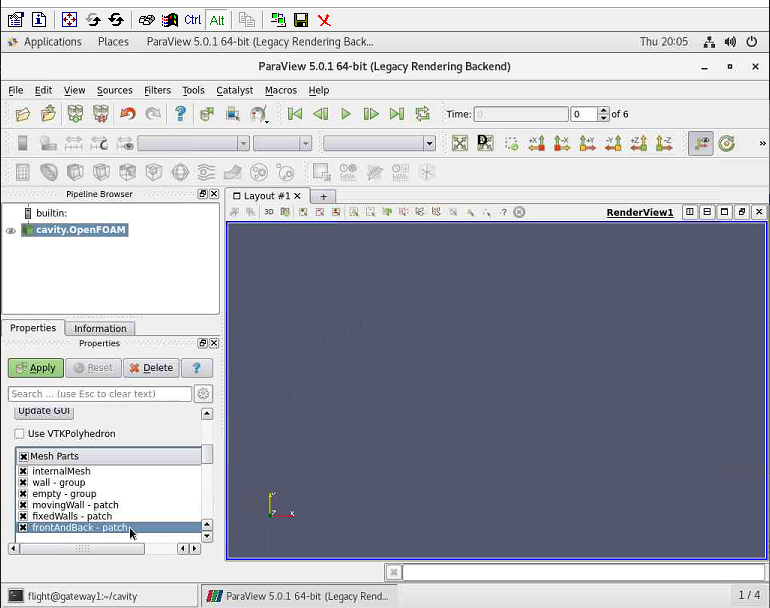
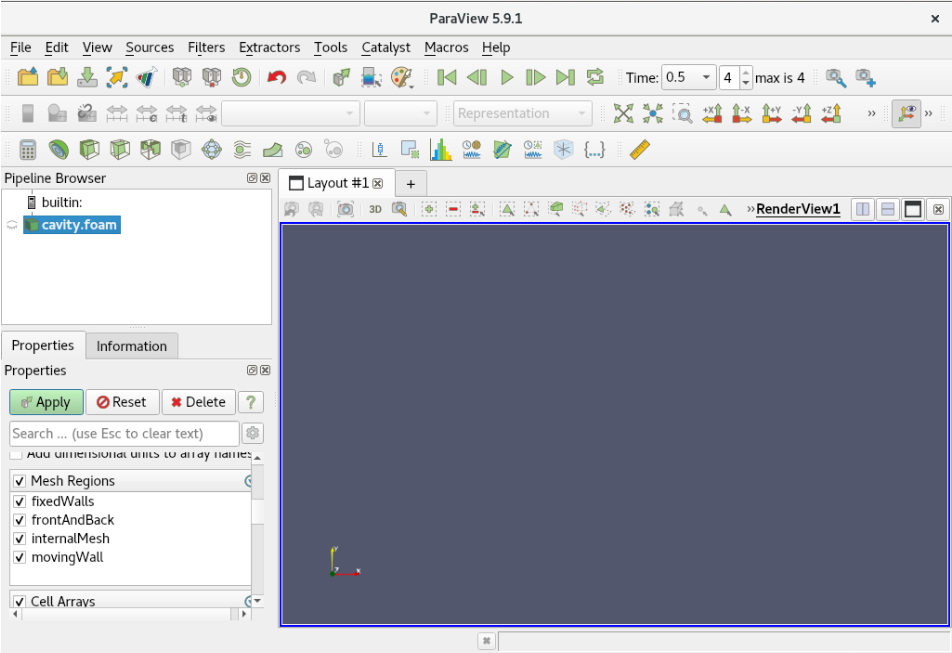
update and fix openfoam workflow

Changed region(s): [[0.0, 0.0, 1.0, 1.0]]

diff --git a/Retype_Documentation/workflow_examples/openfoam.md b/Retype_Documentation/workflow_examples/openfoam.md
@@ -2,7 +2,6 @@
 order: 70
 label: OpenFOAM
 icon: dot-fill
-visibility: hidden
 ---
 
 OpenFOAM is a popular engineering application toolbox. It's open source and is used for simulating fluid flow around objects. 
@@ -11,52 +10,43 @@ OpenFOAM is a popular engineering application toolbox. It's open source and is u
 
 ## Workflow
 
-### Installing OpenFOAM with Gridware
+### Installing OpenFOAM
 
 !!!
-The flight environment will need to be activated before the environments can be created so be sure to run `flight start` or [setup your environment to automatically activate the flight environment](/flight_environment_usage/flight_overview/flight_system/#activating-the-flight-system).
+Your environment will need to have a job scheduler such as [Slurm](/hpc_environment_usage/slurm_environment_usage/slurm_scheduler/), which can be set up by following the instructions for a [standalone cluster](/cluster_build_methods/standalone_cluster/).
 !!!
 
-- Create a gridware software environment:
 
-```bash
-[flight@chead1 (mycluster1) ~]$ flight env create gridware
+Enable copr for OpenFOAM.
+```
+sudo dnf -y copr enable openfoam/openfoam
 ```
 
-- Activate the environment:
-
-```bash
-[flight@chead1 (mycluster1) ~]$ flight env activate gridware
+Install OpenFOAM, the OpenFOAM version selector, the additional sub-packages and paraview.
 ```
-
-- Locate available OpenFOAM versions:
-
-```bash
-<gridware> [flight@chead1 (mycluster1) ~]$ gridware search openfoam
-```
-
-- Install OpenFOAM 4.1:
-
-```bash
-<gridware> [flight@chead1 (mycluster1) ~]$ gridware install apps/openfoam/4.1
+sudo dnf install -y openfoam-selector
+sudo dnf install -y openfoam
+sudo dnf install -y openfoam2212-default
+sudo dnf install -y paraview
 ```
 
 !!!
-After pressing 'y' to accept the installation. Gridware will install various dependencies for OpenFOAM to ensure it runs
+Make sure to do all the installation steps on **all** nodes in the cluster
 !!!
+
+Ensure that the correct version will be used with:
+```
+openfoam-selector --set openfoam2212
+```
+
+Refresh the shell by logging out and back in to make openfoam commands accessible.
 
 ### Checking OpenFOAM is Working
-
-- Load the OpenFOAM module:
-
-```bash
-<gridware> [flight@chead1 (mycluster1) ~]$ module load apps/openfoam
-```
 
 - Check an OpenFOAM command can be seen by viewing the help page:
 
 ```bash
-<gridware> [flight@chead1 (mycluster1) ~]$ icoFoam -help
+icoFoam -help
 ```
 
 ### Running a Simple OpenFOAM Job
@@ -64,13 +54,9 @@ After pressing 'y' to accept the installation. Gridware will install various dep
 - Create a job script in the current working directory:
 
 ```bash
-<gridware> [flight@chead1 (mycluster1) ~]$ cat << 'EOF' > myfoamjob.sh
+cat << 'EOF' > myfoamjob.sh
 #!/bin/bash
 #SBATCH -N 1
-
-# Activate environment and load OpenFOAM module
-flight env activate gridware
-module load apps/openfoam
 
 # Create job directory from example job
 cp -r $FOAM_TUTORIALS/incompressible/icoFoam/cavity/cavity $HOME/.
@@ -86,31 +72,31 @@ EOF
 - Submit the job to the queue system:
 
 ```bash
-<gridware> [flight@chead1 (mycluster1) ~]$ sbatch myfoamjob.sh
+sbatch myfoamjob.sh
 ```
 
-- Check that the job is running (iit will take 1-2 minutes to complete):
+- Check that the job is running (it may take 1-2 minutes to complete):
 
 ```bash
-<gridware> [flight@chead1 (mycluster1) ~]$ squeue
+squeue
 ```
 
 ### Viewing the Results
 
 Once the cavity job has finished running, the results can be visualised through a desktop session.
-- Connect to VNC desktop (For more information on launching desktops, see the [Flight Desktop section](/flight_environment_usage/flight_desktop/install_flight_desktop_types/#install-flight-desktop-types)).
+- Connect to VNC or web-suite desktop (For more information on launching desktops, see the [Flight Desktop section](/flight_environment_usage/flight_desktop/launch_a_desktop_session/)).
 - In a terminal on the desktop session, ensure that the OpenFOAM module is loaded:
 
 ```bash
-[flight@chead1 (mycluster1) ~]$ flight env activate gridware
-<gridware> [flight@chead1 (mycluster1) ~]$ module load apps/openfoam
+flight env activate gridware
+module load apps/openfoam
 ```
 
 - Navigate to the cavity directory and launch the paraFoam viewer:
 
 ```bash
-<gridware> [flight@chead1 (mycluster1) ~]$ cd cavity
-<gridware> [flight@chead1 (mycluster1) cavity]$ paraFoam
+cd cavity
+paraFoam 
 ```
 
 - In the window that opens, scroll down to "Mesh parts" and select all the boxes, then click apply
